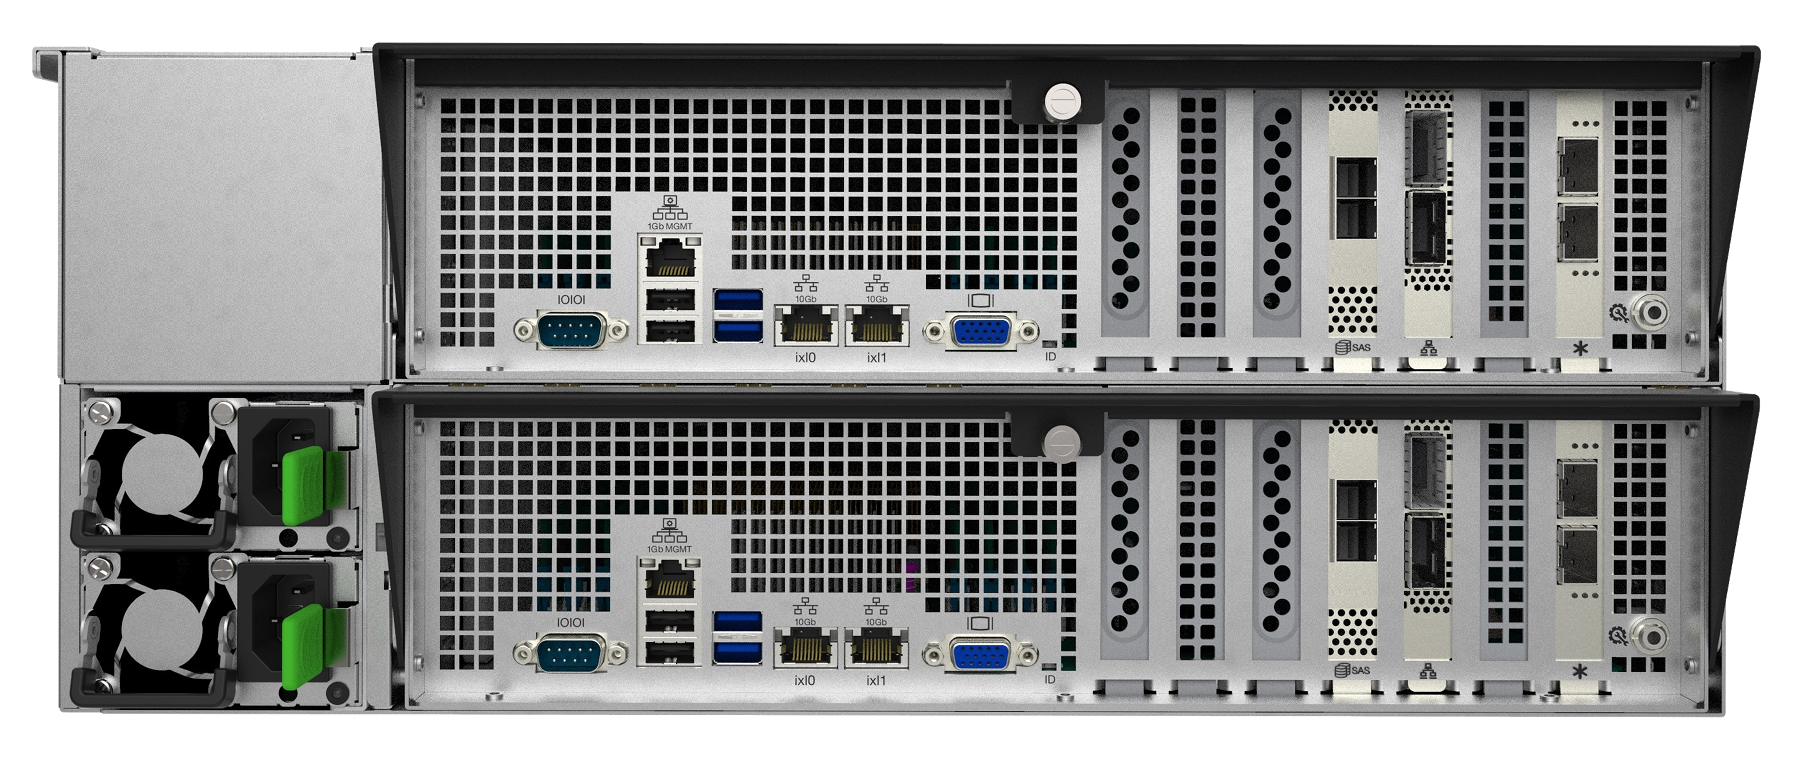
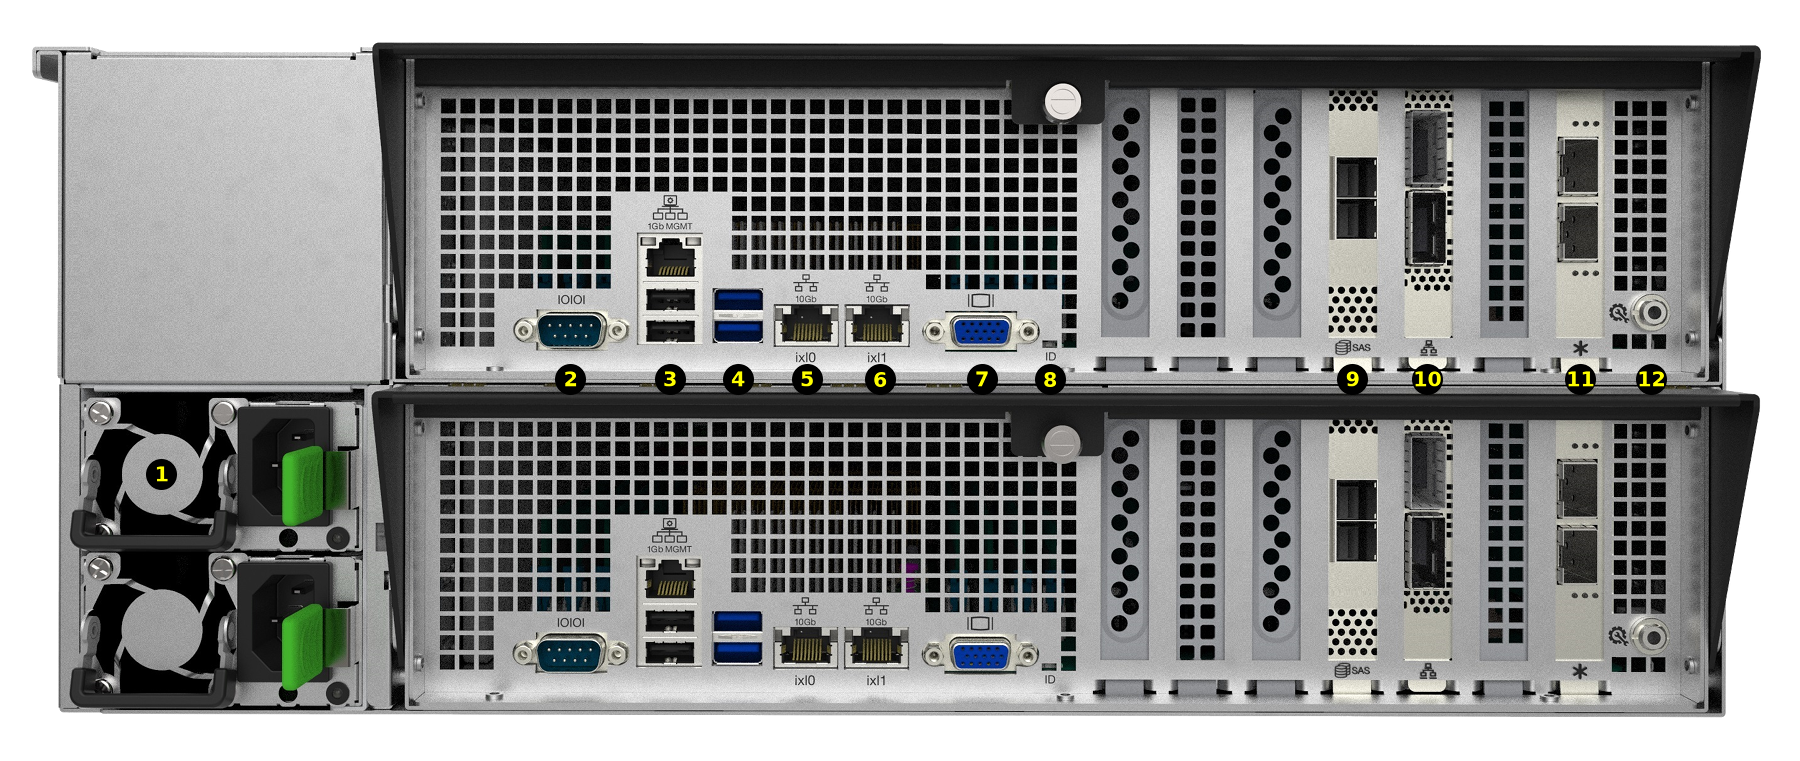
Update the M-Series BSG so it can build a PDF

diff --git a/userguide/snippets/mseries.rst b/userguide/snippets/mseries.rst
@@ -26,16 +26,17 @@ Carefully unpack the shipping boxes and locate these components:
 
    +--------------------------------------------+-------------------------------------------------+
    | .. image:: images/tn_m.png                 | .. image:: images/tn_m_bezel.png                |
+   |                                            |    :width: 89%                                  |
    |                                            |                                                 |
    | M-Series Unified Storage Array             | M-Series Bezel                                  |
    +--------------------------------------------+-------------------------------------------------+
    | .. image:: images/tn_es24m_rails.png       | .. image:: images/tn_es24m_drivetray.png        |
-   |                                            |                                                 |
+   |                                            |    :width: 30%                                  |
    | Set of rackmount rails.                    |                                                 |
    +--------------------------------------------+-------------------------------------------------+
    |                                            |                                                 |
    | .. image:: images/tn_m_acckit.png          |                                                 |
-   |    :width: 80%                             |                                                 |
+   |    :width: 30%                             |                                                 |
    |                                            |                                                 |
    | Accessory kit with 2 IEC C13 to NEMA 5-15P |                                                 |
    | power cords, 2 IEC C14 to C14 cords, and   |                                                 |
@@ -62,10 +63,15 @@ fault. The fault indicator is on during the initial power-on self-test
 <https://support.ixsystems.com/truenasguide/tn_options.html#alert>`__.
 
 
-.. _x_indicators:
+.. _m_indicators:
 
 .. figure:: images/tn_m_indicators.png
-   :width: 50%
+   :width: 25%
+
+
+.. raw:: latex
+
+   \newpage
 
 
 The M-Series contains one or two storage controllers in an
@@ -78,9 +84,31 @@ storage controller are:
 .. table::
    :class: longtable
 
-   +------------------------------------------------+-----------------------------------------------------+
-   |                                                |                                                     |
-   +------------------------------------------------+-----------------------------------------------------+
+   +------------------------------------------------------------------------+
+   | 1: Redundant power supplies                                            |
+   +------------------------------------------------------------------------+
+   | 2: Serial port                                                         |
+   +------------------------------------------------------------------------+
+   | 3: 1Gb Ethernet Out of Band (OOB) management port, dual USB 2.0 ports  |
+   +------------------------------------------------------------------------+
+   | 4: Dual USB 3.0 ports                                                  |
+   +------------------------------------------------------------------------+
+   | 5: 10Gb Ethernet port                                                  |
+   +------------------------------------------------------------------------+
+   | 6: 10Gb Ethernet port                                                  |
+   +------------------------------------------------------------------------+
+   | 7: VGA monitor port                                                    |
+   +------------------------------------------------------------------------+
+   | 8: ID LED                                                              |
+   +------------------------------------------------------------------------+
+   | 9: HD Mini SAS3 connectors                                             |
+   +------------------------------------------------------------------------+
+   | 10: Networking port                                                    |
+   +------------------------------------------------------------------------+
+   | 11: Asterisk slot: Fibre Channel or additional networking              |
+   +------------------------------------------------------------------------+
+   | 12: Storage controller management port                                 |
+   +------------------------------------------------------------------------+
 
 
 .. _m_back:
@@ -98,18 +126,7 @@ storage controller are:
 
 #include snippets/es24m_rails.rst
 
-
-.. raw:: latex
-
-   \newpage
-
-
 #include snippets/es24m_drivetrays.rst
-
-
-.. raw:: latex
-
-   \newpage
 
 
 Connect Expansion Shelves
@@ -155,11 +172,6 @@ Install Bezel (Optional)
 ~~~~~~~~~~~~~~~~~~~~~~~~
 
 The included bezel is not required for operation.
-
-
-.. raw:: latex
-
-   \newpage
 
 
 Perform %brand% Initial Software Configuration
